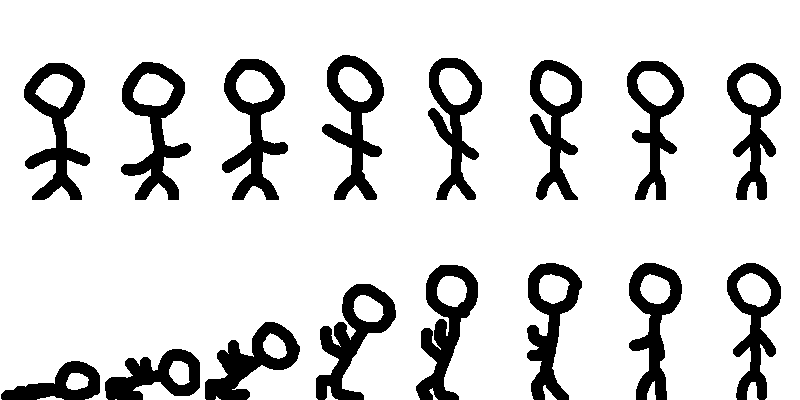
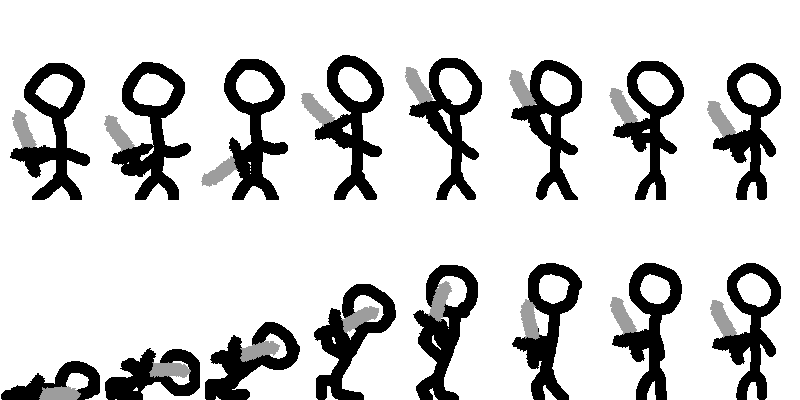
Fixed animation glitch, added swords to all animations

diff --git a/src/assets.js b/src/assets.js
@@ -19,12 +19,12 @@ let spriteNames = [
 let animationDatas = [
     { name: "friendlyWalk", file: "friendlyWalk", frameW: 100, frameH: 200, fps: 10, y: 200, looping: true, playbackDirection: 1, frames: 8 },
     { name: "friendlyIdle", file: "friendlyWalk", frameW: 100, frameH: 200, fps: 4, y: 0, looping: true, playbackDirection: 1, frames: 4 },
-    { name: "friendlyAttack", file: "friendlyAttackDie", frameW: 100, frameH: 200, fps: 10, y: 0, looping: true, playbackDirection: 1, frames: 4 },
-    { name: "friendlyDeath", file: "friendlyAttackDie", frameW: 100, frameH: 200, fps: 10, y: 200, looping: false, playbackDirection: 1, frames: 4 },
+    { name: "friendlyAttack", file: "friendlyAttackDie", frameW: 100, frameH: 200, fps: 10, y: 0, looping: true, playbackDirection: 1, frames: 8 },
+    { name: "friendlyDeath", file: "friendlyAttackDie", frameW: 100, frameH: 200, fps: 10, y: 200, looping: false, playbackDirection: 1, frames: 8 },
     { name: "enemyWalk", file: "enemyWalk", frameW: 100, frameH: 200, fps: 10, y: 200, looping: true, playbackDirection: -1, frames: 8 },
     { name: "enemyIdle", file: "enemyWalk", frameW: 100, frameH: 200, fps: 4, y: 0, looping: true, playbackDirection: -1, frames: 4 },
-    { name: "enemyAttack", file: "enemyAttackDie", frameW: 100, frameH: 200, fps: 10, y: 0, looping: true, playbackDirection: -1, frames: 4 },
-    { name: "enemyDeath", file: "enemyAttackDie", frameW: 100, frameH: 200, fps: 10, y: 200, looping: false, playbackDirection: -1, frames: 4 }
+    { name: "enemyAttack", file: "enemyAttackDie", frameW: 100, frameH: 200, fps: 10, y: 0, looping: true, playbackDirection: -1, frames: 8 },
+    { name: "enemyDeath", file: "enemyAttackDie", frameW: 100, frameH: 200, fps: 10, y: 200, looping: false, playbackDirection: -1, frames: 8 }
 ];
 
 //
@@ -56,7 +56,7 @@ function loadAnimation(data) {
 
 function getAnimation(animationName) {
     let a = animations[animationName];
-    return new Animation(a.spriteSheet, a.frameWidth, a.frameHeight, a.fps, a.frameY, a.looping, a.playbackDirection);
+    return new Animation(a.spriteSheet, a.frameWidth, a.frameHeight, a.fps, a.frameY, a.looping, a.playbackDirection, a.frames);
 }
 
 // Decrement imagesLoading and fire assetsLoaded event if all the images loaded

diff --git a/index.html b/index.html
@@ -6,6 +6,7 @@
     <meta name="viewport" content="width=device-width, initial-scale=1.0">
     <title>Document</title>
     <script src="src/game.js" type="module"></script>
+    <link rel="stylesheet" href="styles/styles.css"/>
     <link rel="stylesheet" href="https://cdn.jsdelivr.net/npm/bulma@0.9.3/css/bulma.min.css">
     <link rel="stylesheet" href="https://cdnjs.cloudflare.com/ajax/libs/font-awesome/5.15.3/css/all.min.css" integrity="sha512-iBBXm8fW90+nuLcSKlbmrPcLa0OT92xO1BIsZ+ywDWZCvqsWgccV3gFoRBv0z+8dLJgyAHIhR35VZc2oM/gI1w==" crossorigin="anonymous" referrerpolicy="no-referrer"
     />
@@ -16,7 +17,7 @@
         <p>Spawn troops:</p>
         <div class="container">
             <button id="spawnTroops" class="button my-3"><img src="assets/troopThumbnail.png"></button>
-            <button id="pause" class="button">Play</button>
+            <button id="pause" class="button my-3">Play</button>
         </div>
         <canvas id="mycanvas" width="600" height="400" style="border: 1px solid black"></canvas>
         <p>Left and right arrow keys to move the camera. Want to add more units and basic economy (as in player has money and uses it to buy troops).</p>

diff --git a/styles/styles.css b/styles/styles.css
@@ -1,0 +1,4 @@
+img {
+    max-width: 100%;
+    max-height: 100%;
+}
